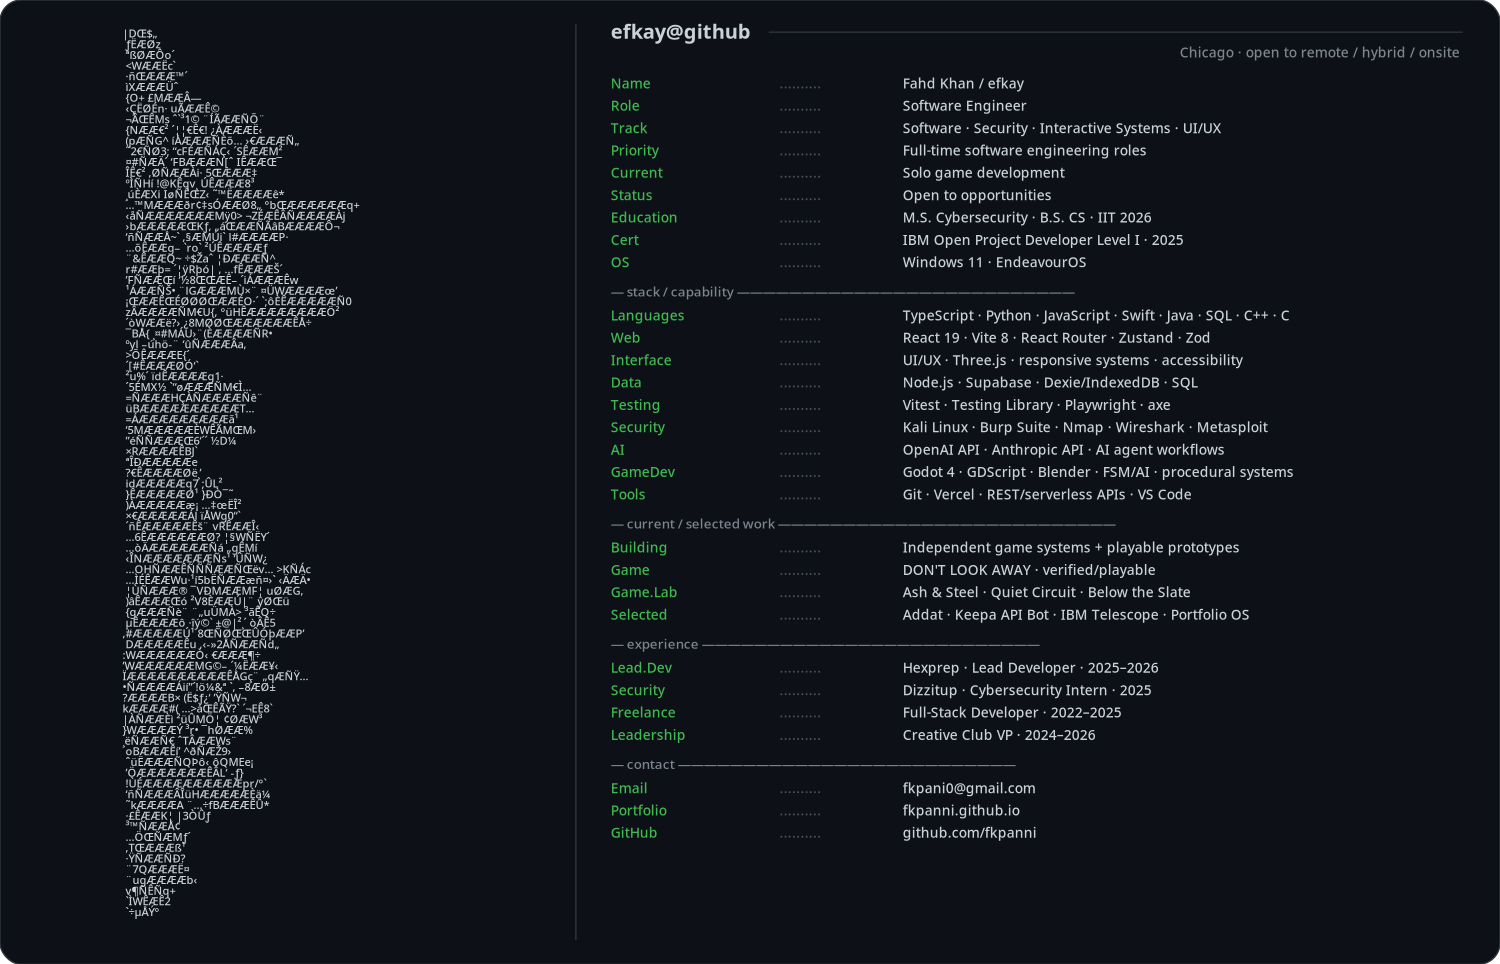
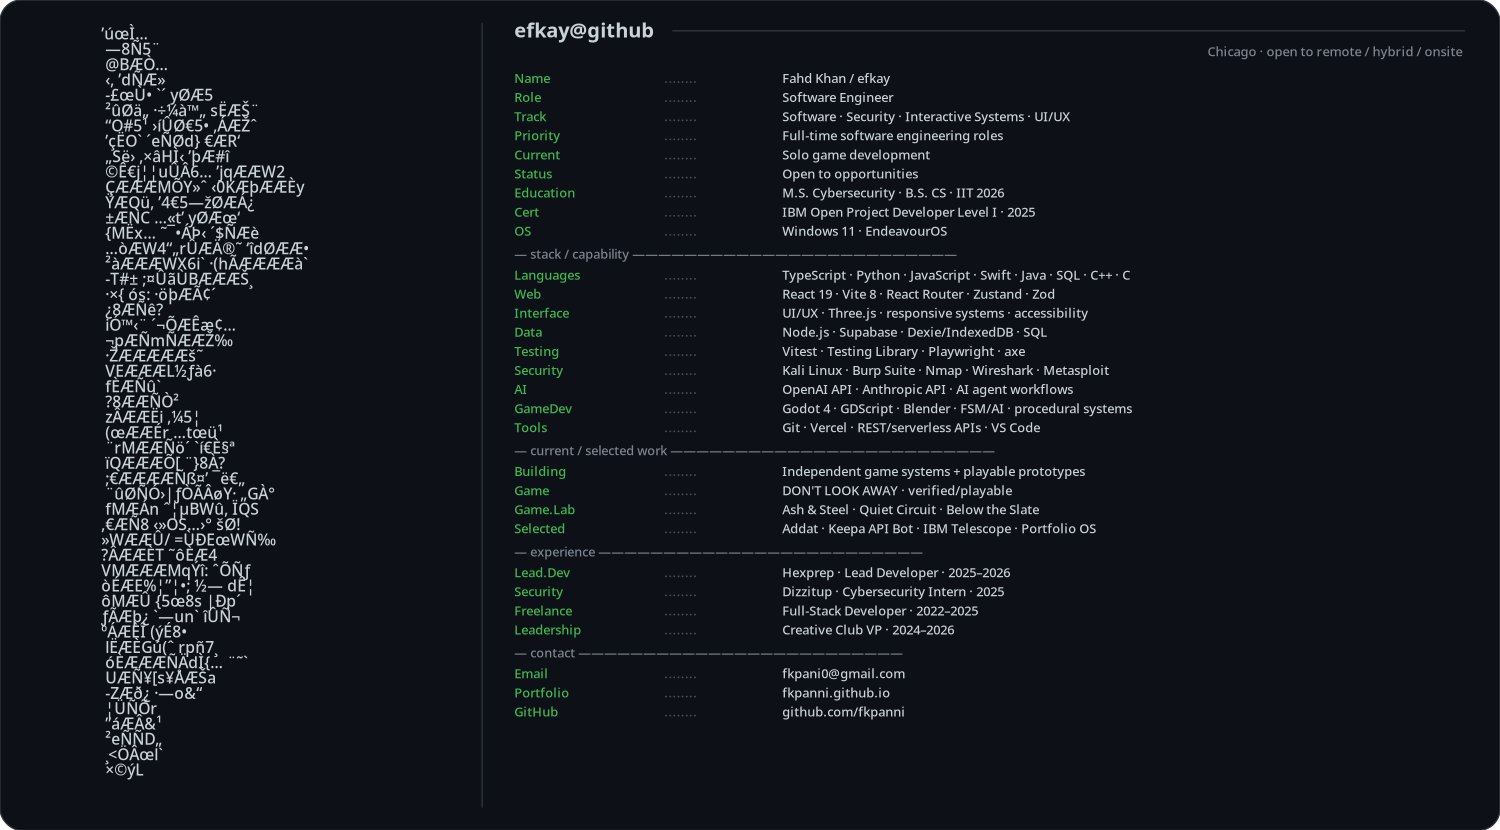
Add files via upload

diff --git a/generate_profile.py b/generate_profile.py
@@ -23,26 +23,13 @@ def build_svg(theme="dark"):
     accent = "#3fb950" if dark else "#1a7f37"
     dim = "#484f58" if dark else "#8c959f"
 
-    W = 1120
-    divider_x = 430
-    x = divider_x + 26
-    dots_x = x + 126
-    value_x = x + 218
-    body_fs = 10.3
-    row_h = 16.7
+    W, H = 1120, 620
+    divider_x = 360
 
-    right_rows = (
-        len(PROFILE["overview"]) + len(PROFILE["stack"]) + len(PROFILE["work"]) +
-        len(PROFILE["experience"]) + len(PROFILE["contact"])
-    )
-    right_content_h = 70 + right_rows * row_h + 4 * 24 + 34
-
-    ascii_font = 8.3
-    ascii_line = 8.0
+    ascii_font = 11.7
+    ascii_line = 11.45
     ascii_h = len(LINES) * ascii_line
-    H = int(max(right_content_h + 36, ascii_h + 54))
-
-    max_ascii_h = H - 46
+    max_ascii_h = H - 44
     if ascii_h > max_ascii_h:
         scale = max_ascii_h / ascii_h
         ascii_font *= scale
@@ -50,12 +37,9 @@ def build_svg(theme="dark"):
         ascii_h = len(LINES) * ascii_line
 
     max_cols = max((len(line) for line in LINES), default=1)
-    char_w = ascii_font * 0.62
+    char_w = ascii_font * 0.615
     ascii_w = max_cols * char_w
-    panel_left = 18
-    panel_right = divider_x - 18
-    panel_w = panel_right - panel_left
-    ascii_x = panel_left + max(0, (panel_w - ascii_w) / 2)
+    ascii_x = max(18, (divider_x - ascii_w) / 2)
     ascii_top = (H - ascii_h) / 2
 
     tspans = "".join(
@@ -63,37 +47,43 @@ def build_svg(theme="dark"):
         for i, line in enumerate(LINES)
     )
 
+    x = divider_x + 24
+    dots_x = x + 112
+    value_x = x + 200
+    body_fs = 9.6
+    row_h = 14.25
+
     parts = []
-    parts.append(f'<text x="{x}" y="29" class="header">{escape(PROFILE["display_name"])}@github</text>')
-    parts.append(f'<line x1="{x+118}" y1="24" x2="{W-28}" y2="24" stroke="{border}" />')
-    parts.append(f'<text x="{W-30}" y="43" text-anchor="end" class="sub">{escape(PROFILE["location_line"])}</text>')
+    parts.append(f'<text x="{x}" y="28" class="header">{escape(PROFILE["display_name"])}@github</text>')
+    parts.append(f'<line x1="{x+118}" y1="23" x2="{W-26}" y2="23" stroke="{border}" />')
+    parts.append(f'<text x="{W-28}" y="42" text-anchor="end" class="sub">{escape(PROFILE["location_line"])}</text>')
 
     def add_row(label, value, y):
         parts.append(f'<text x="{x}" y="{y:.1f}" class="key">{escape(label)}</text>')
-        parts.append(f'<text x="{dots_x}" y="{y:.1f}" class="dots">..........</text>')
+        parts.append(f'<text x="{dots_x}" y="{y:.1f}" class="dots">........</text>')
         parts.append(f'<text x="{value_x}" y="{y:.1f}" class="value">{escape(value)}</text>')
         return y + row_h
 
     def add_section(title, y):
-        parts.append(f'<text x="{x}" y="{y:.1f}" class="section">— {escape(title)} ——————————————————————————</text>')
-        return y + 18
+        parts.append(f'<text x="{x}" y="{y:.1f}" class="section">— {escape(title)} {"—"*25}</text>')
+        return y + 15.5
 
-    y = 66
+    y = 62
     for label, value in PROFILE["overview"]:
         y = add_row(label, value, y)
-    y += 5
+    y += 3
     y = add_section("stack / capability", y)
     for label, value in PROFILE["stack"]:
         y = add_row(label, value, y)
-    y += 5
+    y += 3
     y = add_section("current / selected work", y)
     for label, value in PROFILE["work"]:
         y = add_row(label, value, y)
-    y += 5
+    y += 3
     y = add_section("experience", y)
     for label, value in PROFILE["experience"]:
         y = add_row(label, value, y)
-    y += 5
+    y += 3
     y = add_section("contact", y)
     for label, value in PROFILE["contact"]:
         y = add_row(label, value, y)
@@ -101,17 +91,17 @@ def build_svg(theme="dark"):
     return f"""<?xml version="1.0" encoding="UTF-8"?>
 <svg xmlns="http://www.w3.org/2000/svg" width="{W}" height="{H}" viewBox="0 0 {W} {H}">
 <style>
-text { font-family: ui-monospace, SFMono-Regular, Menlo, Monaco, Consolas, "Liberation Mono", monospace; white-space: pre; }
-.ascii { fill: {text}; }
-.header { fill: {text}; font-size: 15px; font-weight: 600; }
-.sub { fill: {muted}; font-size: 10.3px; }
-.key { fill: {accent}; font-size: {body_fs}px; }
-.value { fill: {text}; font-size: {body_fs}px; }
-.dots { fill: {dim}; font-size: {body_fs}px; letter-spacing: 0.15px; }
-.section { fill: {muted}; font-size: 10px; }
+text {{ font-family: ui-monospace, SFMono-Regular, Menlo, Monaco, Consolas, "Liberation Mono", monospace; white-space: pre; }}
+.ascii {{ fill: {text}; }}
+.header {{ fill: {text}; font-size: 15px; font-weight: 600; }}
+.sub {{ fill: {muted}; font-size: 9.7px; }}
+.key {{ fill: {accent}; font-size: {body_fs}px; }}
+.value {{ fill: {text}; font-size: {body_fs}px; }}
+.dots {{ fill: {dim}; font-size: {body_fs}px; letter-spacing: 0.1px; }}
+.section {{ fill: {muted}; font-size: 9.5px; }}
 </style>
 <rect width="{W}" height="{H}" rx="16" fill="{bg}" stroke="{border}" />
-<line x1="{divider_x}" y1="18" x2="{divider_x}" y2="{H-18}" stroke="{border}" />
+<line x1="{divider_x}" y1="17" x2="{divider_x}" y2="{H-17}" stroke="{border}" />
 <text class="ascii" font-size="{ascii_font:.3f}px">{tspans}</text>
 {''.join(parts)}
 </svg>"""

diff --git a/SETUP.md b/SETUP.md
@@ -1,28 +1,24 @@
-# fkpanni GitHub profile README — DNA ASCII v8
+# fkpanni GitHub profile README — compact DNA v9
 
-This version uses the newer ~80-character-wide DNA ASCII and sizes the card around the art itself.
+This version uses the shorter 29×49 DNA ASCII and a 620px-high card.
 
-- ASCII is centered in the left panel
-- card height follows the ASCII height instead of using a large fixed canvas
-- right-side profile information remains compact
-- dark and light SVGs included
+- artwork is enlarged to span almost the entire left panel
+- overall README card is much shorter
+- right-side typography is tightened to preserve the same information
+- dark/light variants included
 
 ## Install
 
-Use the public profile repository:
-
-`fkpanni/fkpanni`
-
-Then copy these files in and run:
+Use the public profile repository `fkpanni/fkpanni`, copy these files in, then:
 
 ```bash
 git add .
-git commit -m "feat: refine dna ascii readme"
+git commit -m "feat: compact dna profile readme"
 git push
 ```
 
-## Edit
+Edit `profile.json` or `ascii/helix.txt`, then regenerate with:
 
-- ASCII: `ascii/helix.txt`
-- profile text: `profile.json`
-- regenerate: `python generate_profile.py`
+```bash
+python generate_profile.py
+```
